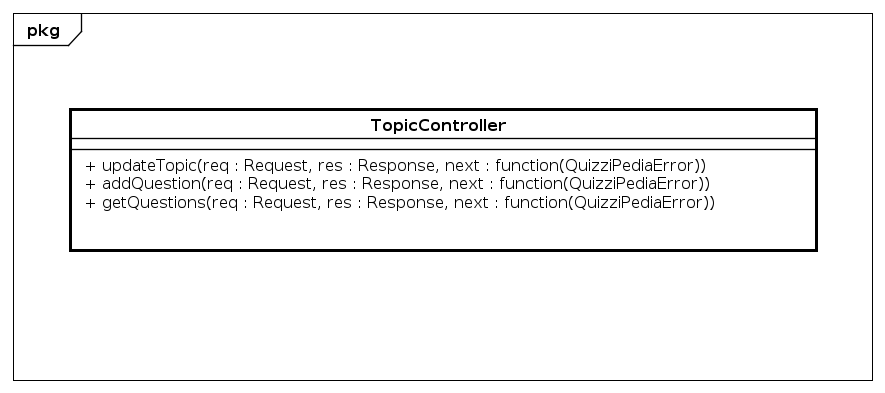
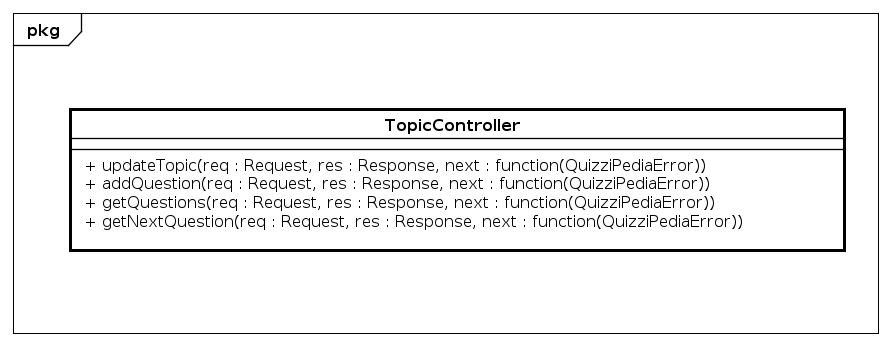
aggiunto metodo nel topicModel e topicController

Changed region(s): [[0.061, 0.2601, 0.9763, 0.7514], [0.0, 0.0289, 1.0, 0.1445], [0.0, 0.9538, 1.0, 0.9827]]

diff --git a/RP/DefinizioneDiProdotto/sezioni/Back-End/Models/TopicModel.tex b/RP/DefinizioneDiProdotto/sezioni/Back-End/Models/TopicModel.tex
@@ -36,7 +36,7 @@
 			\item \texttt{topicId : ObjectId} \\
 			Rappresenta l'identificativo dell'argomento da aggiornare.
 			\end{itemize}
-			\item \texttt{+ updateTotal(topicId : ObjectId): void} \\
+			\item \texttt{+ updateTotal(topicId : ObjectId) : void} \\
 			Metodo che consente di tenere aggiornato il numero totale di risposte date a domande sull'argomento. \\
 			\begin{itemize}
 			\item \texttt{topicId : ObjectId} \\
@@ -54,7 +54,19 @@
 			Metodo che consente di ottenere le domande sull'argomento attraverso la funzione di callback oppure un messaggio di errore. \\
 			\begin{itemize}
 			\item \texttt{topicId : ObjectId} \\
-			Rappresenta l'identificativo dell'argomento da aggiornare;
+			Rappresenta l'identificativo dell'argomento trattato dalle domande che si vuole ottenere;
+			\item \texttt{callback : function(JSON)} \\
+			Rappresenta la callback che il metodo deve chiamare al termine dell'elaborazione nel caso in cui non si siano verificati errori;
+			\item \texttt{errback : function(QuizziPediaError)} \\
+			Rappresenta la callback che il metodo deve chiamare qualora si verificassero errori durante l'esecuzione del metodo.
+			\end{itemize}
+			\item \texttt{+ getNextQuestion(topicId : ObjectId, levelUser : Number, callback : function(JSON), errback : function(QuizziPediaError)) : void} \\
+			Metodo che consente di ottenere la domanda successiva nella modalità allenamento, in base al livello dell'utente che lo sta svolgendo. \\
+			\begin{itemize}
+			\item \texttt{topicId : ObjectId} \\
+			Rappresenta l'identificativo dell'argomento trattato nell'allenamento;
+			\item \texttt{levelUser : Number} \\
+			Rappresenta il livello dell'utente che sta svolgendo l'allenamento;
 			\item \texttt{callback : function(JSON)} \\
 			Rappresenta la callback che il metodo deve chiamare al termine dell'elaborazione nel caso in cui non si siano verificati errori;
 			\item \texttt{errback : function(QuizziPediaError)} \\

diff --git a/RP/DefinizioneDiProdotto/sezioni/Back-End/Controllers/TopicController.tex b/RP/DefinizioneDiProdotto/sezioni/Back-End/Controllers/TopicController.tex
@@ -50,5 +50,16 @@
 			\item \texttt{next: function(QuizziPediaError)} \\
 			Rappresenta la callback che il metodo deve chiamare al termine dell'elaborazione per passare il controllo ai successivi middleware. La presenza del parametro facoltativo QuizziPediaError attiva la catena di gestione dell'errore in sostituzione della normale catena di gestione delle richieste.
 			\end{itemize}
+			\item \texttt{+ getNextQuestion(req : Request, res : Response, next : function(QuizziPediaError))} \\
+			Restituisce la domanda successiva di un allenamento.  \\
+			\textbf{Parametri}:
+			\begin{itemize}
+			\item \texttt{req: Request} \\
+			Rappresenta la richiesta inviata al server. Contiene l'identificativo dell'argomento trattato nell'allenamento e il livello dell'utente che lo sta svolgendo;
+			\item \texttt{res: Response} \\
+			Rappresenta la risposta che il server fornirà al termine dell'esecuzione del metodo;
+			\item \texttt{next: function(QuizziPediaError)} \\
+			Rappresenta la callback che il metodo deve chiamare al termine dell'elaborazione per passare il controllo ai successivi middleware. La presenza del parametro facoltativo QuizziPediaError attiva la catena di gestione dell'errore in sostituzione della normale catena di gestione delle richieste.
+			\end{itemize}
 		\end{itemize}
 \end{itemize}
